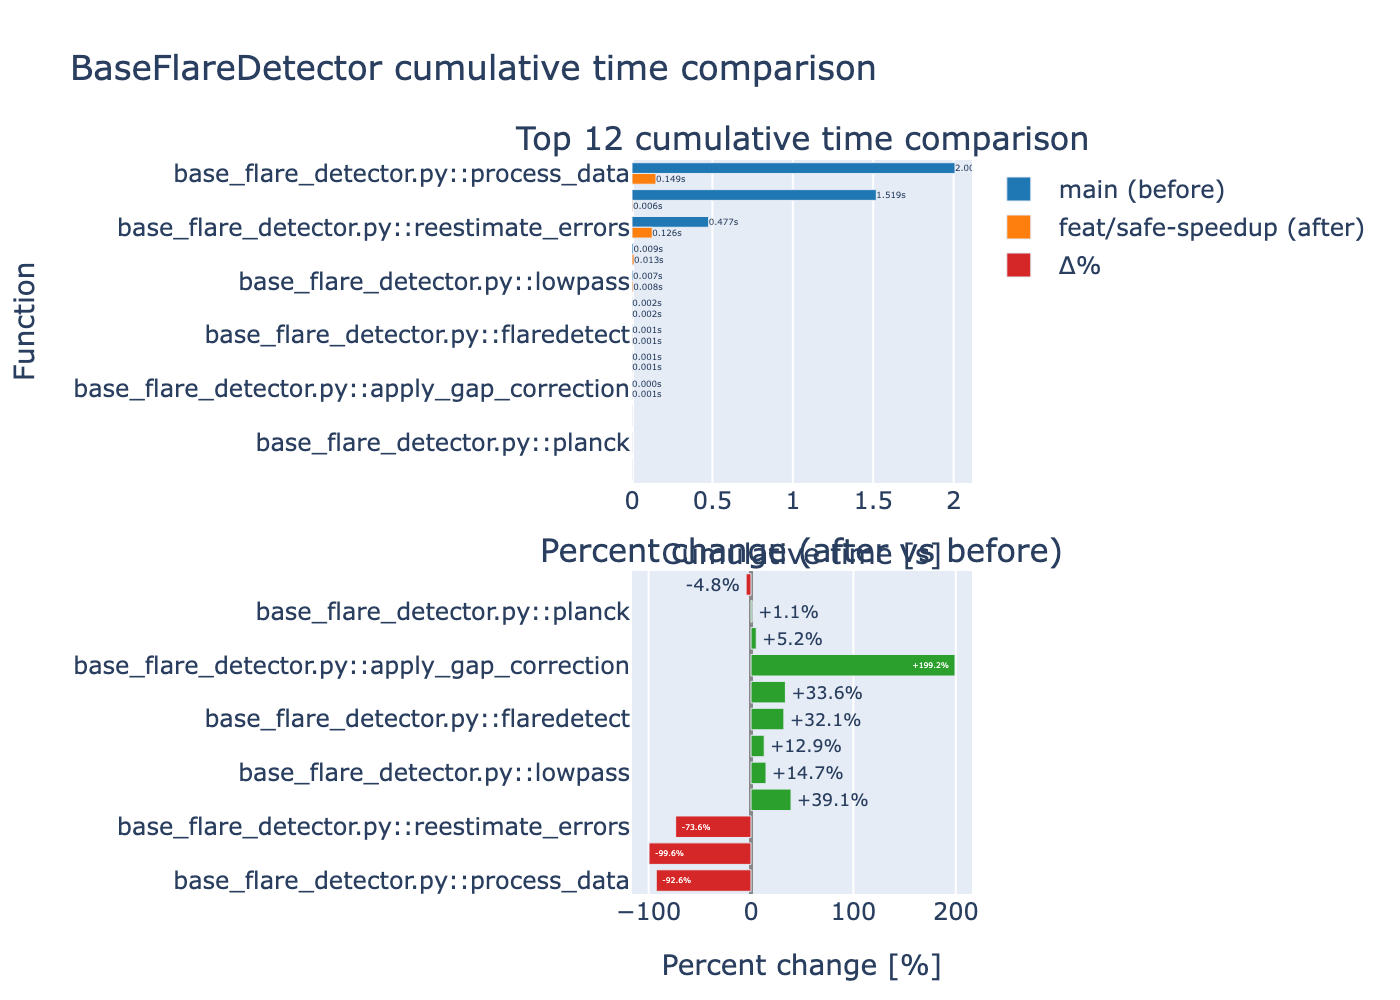
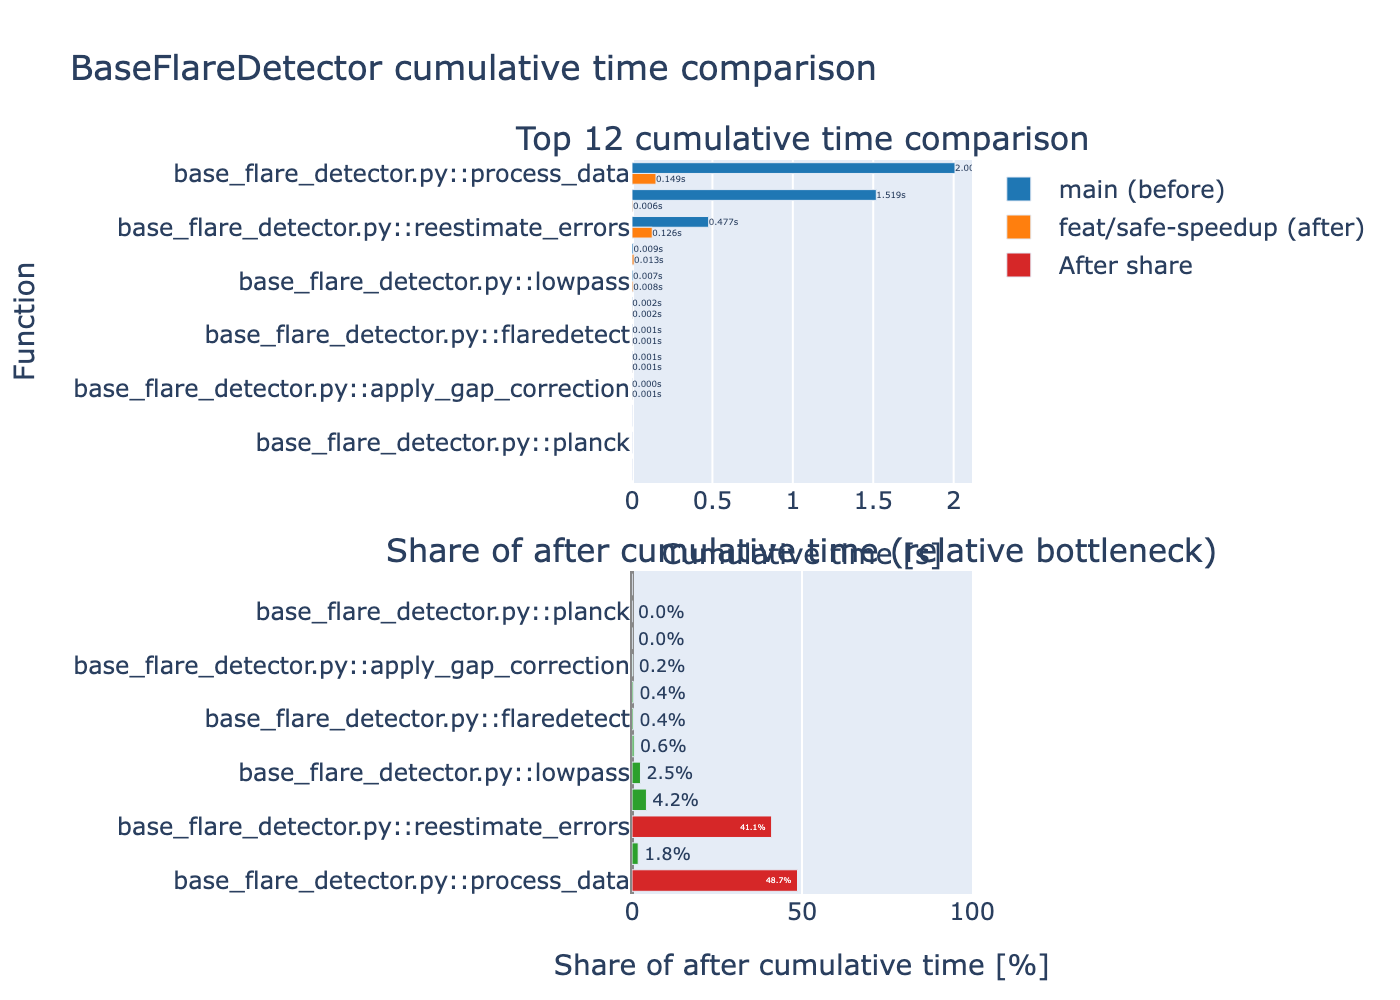
feat: 比較グラフにボトルネック指標(After share)を追加

diff --git a/scripts/compare_profile_results.py b/scripts/compare_profile_results.py
@@ -78,7 +78,7 @@ def plot_comparison(
         cols=1,
         subplot_titles=(
             f"Top {top_n} cumulative time comparison",
-            "Percent change (after vs before)",
+            "Share of after cumulative time (relative bottleneck)",
         ),
         specs=[[{"type": "xy"}], [{"type": "xy"}]],
         vertical_spacing=0.12,
@@ -111,16 +111,22 @@ def plot_comparison(
         col=1,
     )
 
-    percent_colors = ["#2ca02c" if pct >= 0 else "#d62728" for pct in top["percent_change"].fillna(0)]
+    after_total = top[after_col].sum()
+    share_percent = np.where(after_total > 0, top[after_col] / after_total * 100, np.nan)
+    share_colors = [
+        "#d62728" if pct >= 40 else "#ff7f0e" if pct >= 20 else "#2ca02c" for pct in share_percent
+    ]
     fig.add_trace(
         go.Bar(
             y=labels,
-            x=top["percent_change"],
+            x=share_percent,
             orientation="h",
-            name="Δ%",
-            marker_color=percent_colors,
-            text=[f"{pct:+.1f}%" if not np.isnan(pct) else "N/A" for pct in top["percent_change"]],
+            name="After share",
+            marker_color=share_colors,
+            text=[f"{pct:.1f}%" if not np.isnan(pct) else "N/A" for pct in share_percent],
             textposition="auto",
+            customdata=top["percent_change"],
+            hovertemplate="Function: %{y}<br>After share: %{x:.1f}%<br>Δ% vs before: %{customdata:+.1f}%<extra></extra>",
         ),
         row=2,
         col=1,
@@ -128,10 +134,10 @@ def plot_comparison(
 
     fig.update_layout(
         barmode="group",
-        height=max(800, 60 * len(labels)),
+        height=max(900, 65 * len(labels)),
         yaxis=dict(autorange="reversed", title="Function"),
         xaxis=dict(title="Cumulative time [s]"),
-        xaxis2=dict(title="Percent change [%]", zeroline=True, zerolinecolor="#888"),
+        xaxis2=dict(title="Share of after cumulative time [%]", range=[0, 100], zeroline=True, zerolinecolor="#888"),
         margin=dict(l=220, r=60, t=80, b=40),
         title="BaseFlareDetector cumulative time comparison",
     )
